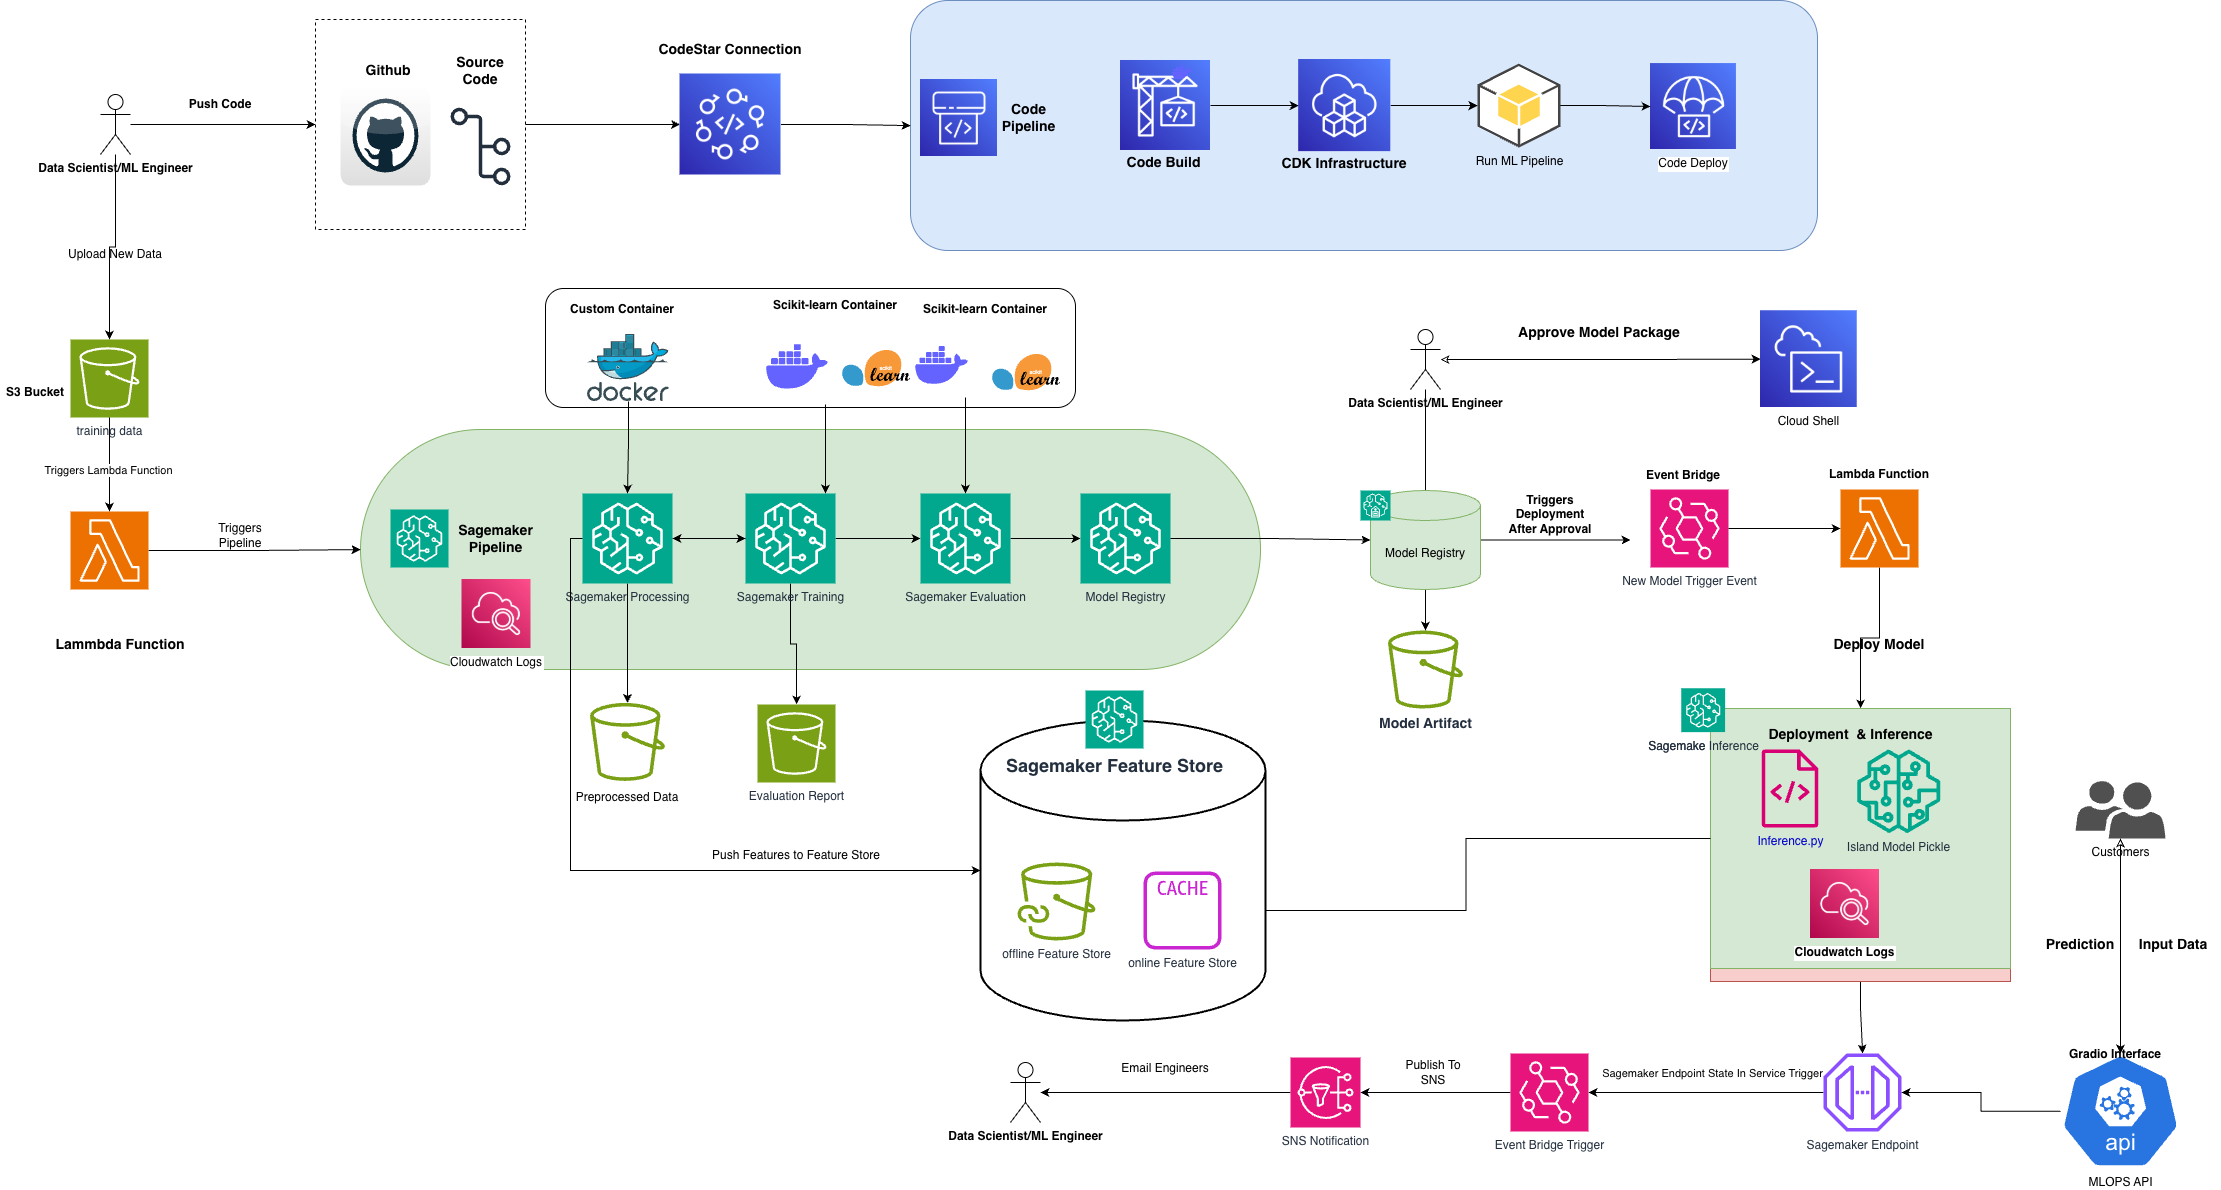
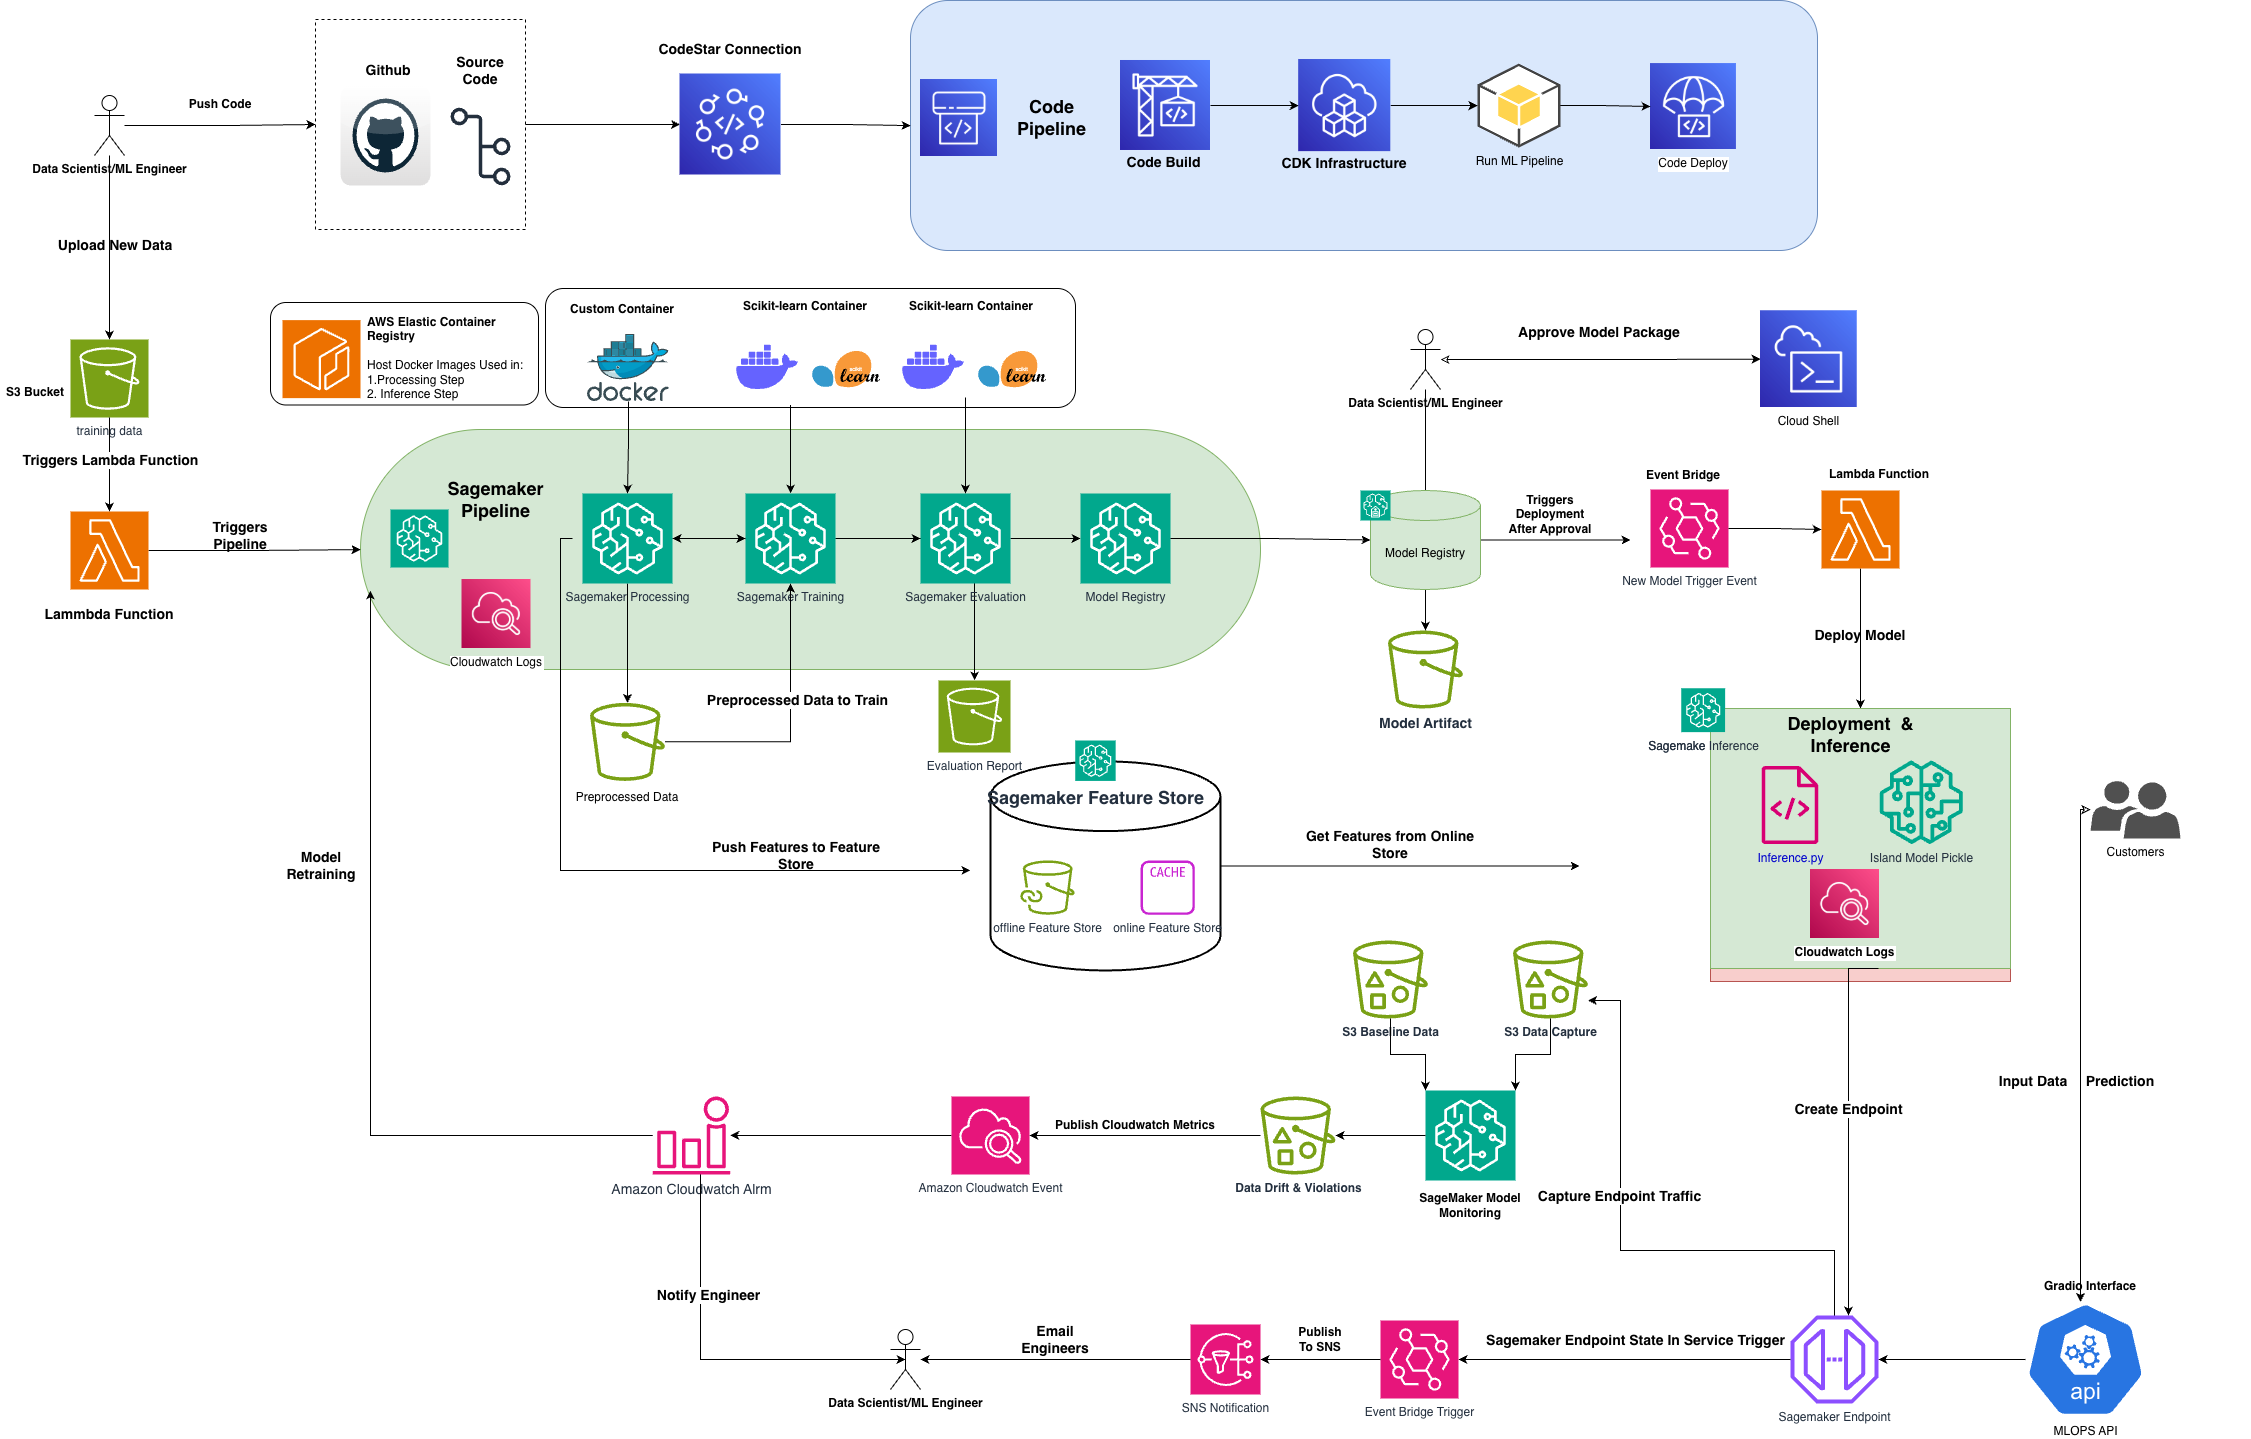
en to end system

diff --git a/lambda_inference/app.py b/lambda_inference/app.py
@@ -59,7 +59,9 @@ def handler(event, context):
         ],
         DataCaptureConfig= {
             'EnableCapture': True,
-            'InitialSamplingPercentage' : 50,
+            'InitialSamplingPercentage' : 100
+            
+            ,
             'DestinationS3Uri': s3_capture_upload_path,
             'CaptureOptions': [{"CaptureMode" : capture_mode} for capture_mode in capture_modes] # Example - Use list comprehension to capture both Input and Output
     }

diff --git a/commands.py b/commands.py
@@ -32,5 +32,14 @@ docker run --rm \
 """
 
 
+### Data Capture Data in AWS CLI
+
+"""
+aws s3 cp s3://mlopspipelinestack-sagemakerartifactbucket4252fcb9-fvqyn7tgtetp/Demo/monitoring/data_capture/mlops-endpoint/AllTraffic/2026/01/08/23/31-59-861-b3470729-71bf-4480-8312-303783408482.jsonl ./capture.jsonl
+head -n 100 capture.jsonl 
+cat capture.jsonl | jq -r '.captureData.endpointInput.data' | base64 --decode | jq .
+
+"""
+
 
 
